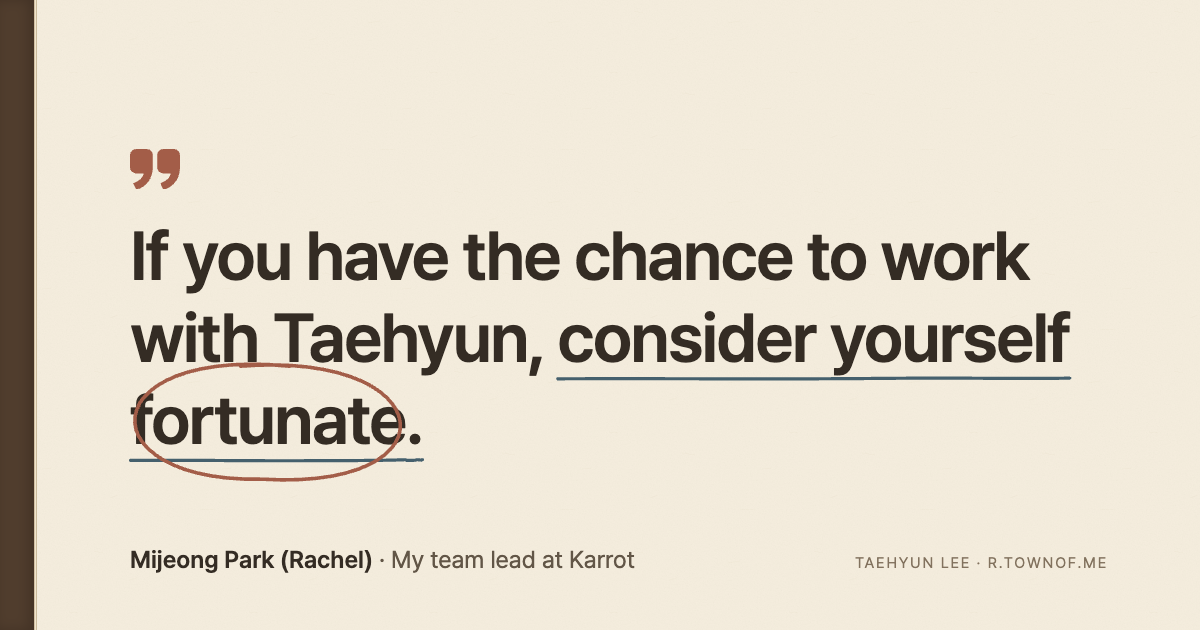
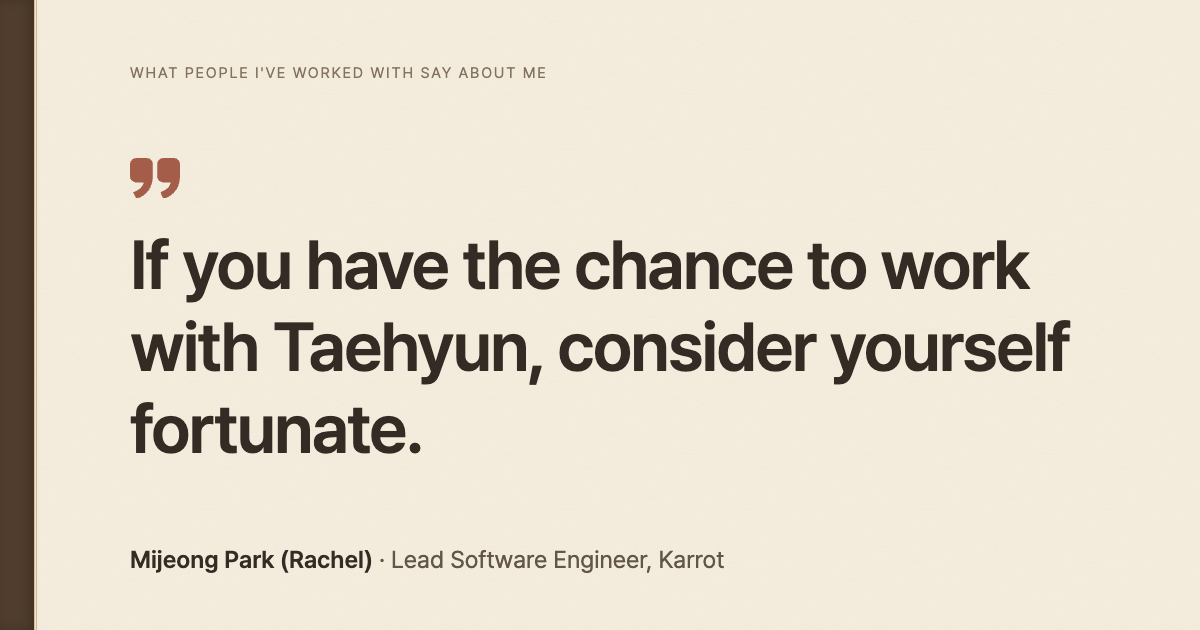
feat: simplify OG image to the quote, tagline, and Rachel's role
Drop the pen marks from the quote, put the tagline in a small header,
and credit Rachel with her title instead of our relationship. The name
and URL footer is gone since LinkedIn shows the page title and domain.

diff --git a/scripts/og.html b/scripts/og.html
@@ -10,11 +10,9 @@
   .body { margin: auto 0; }
   .mark { display: block; width: 50px; color: #a35d48; }
   .quote { position: relative; margin: 26px 0 0; font-size: 68px; font-weight: 600; line-height: 1.2; letter-spacing: -0.03em; }
-  .foot { display: flex; justify-content: space-between; align-items: baseline; }
-  .foot p { margin: 0; }
-  .by { font-size: 24px; color: #625647; }
+  .head { margin: 0; font-size: 15px; letter-spacing: .12em; text-transform: uppercase; color: #82725e; }
+  .by { margin: 0; font-size: 24px; color: #625647; }
   .by strong { font-weight: 600; color: #342c24; }
-  .site { font-size: 15px; letter-spacing: .12em; text-transform: uppercase; color: #82725e; }
   [data-ink-layer] { position: absolute; inset: 0; width: 100%; height: 100%; overflow: visible; pointer-events: none; }
   [data-ink-layer] path { fill: none; stroke: #45606d; stroke-width: 3.2; vector-effect: non-scaling-stroke; stroke-linecap: round; stroke-linejoin: round; }
   [data-ink-layer] [data-ink="circle"] { stroke: #a35d48; stroke-width: 3.6; }
@@ -23,17 +21,15 @@
 <body>
 <div class="spine"></div>
 <div class="page">
+  <p class="head">What people I've worked with say about me</p>
   <div class="body">
     <svg class="mark" viewBox="12 16 40.5 33" fill="currentColor" aria-hidden="true">
       <path d="M12 21C12 18.2 14.2 16 17 16H25.5C28.3 16 30.5 18.2 30.5 21V30.5C30.5 40.2 25.5 46.6 17 49L14.6 43.6C20 42 22.7 38.8 23 35.8H17C14.2 35.8 12 33.6 12 30.8Z" />
       <path d="M34 21C34 18.2 36.2 16 39 16H47.5C50.3 16 52.5 18.2 52.5 21V30.5C52.5 40.2 47.5 46.6 39 49L36.6 43.6C42 42 44.7 38.8 45 35.8H39C36.2 35.8 34 33.6 34 30.8Z" />
     </svg>
-    <p class="quote">If you have the chance to work with Taehyun, <span data-ink="underline">consider yourself <span data-ink="circle">fortunate</span>.</span><svg data-ink-layer aria-hidden="true"></svg></p>
+    <p class="quote">If you have the chance to work with Taehyun, consider yourself fortunate.<svg data-ink-layer aria-hidden="true"></svg></p>
   </div>
-  <div class="foot">
-    <p class="by"><strong>Mijeong Park (Rachel)</strong> · My team lead at Karrot</p>
-    <p class="site">Taehyun Lee · r.townof.me</p>
-  </div>
+  <p class="by"><strong>Mijeong Park (Rachel)</strong> · Lead Software Engineer, Karrot</p>
 </div>
 </body>
 </html>
